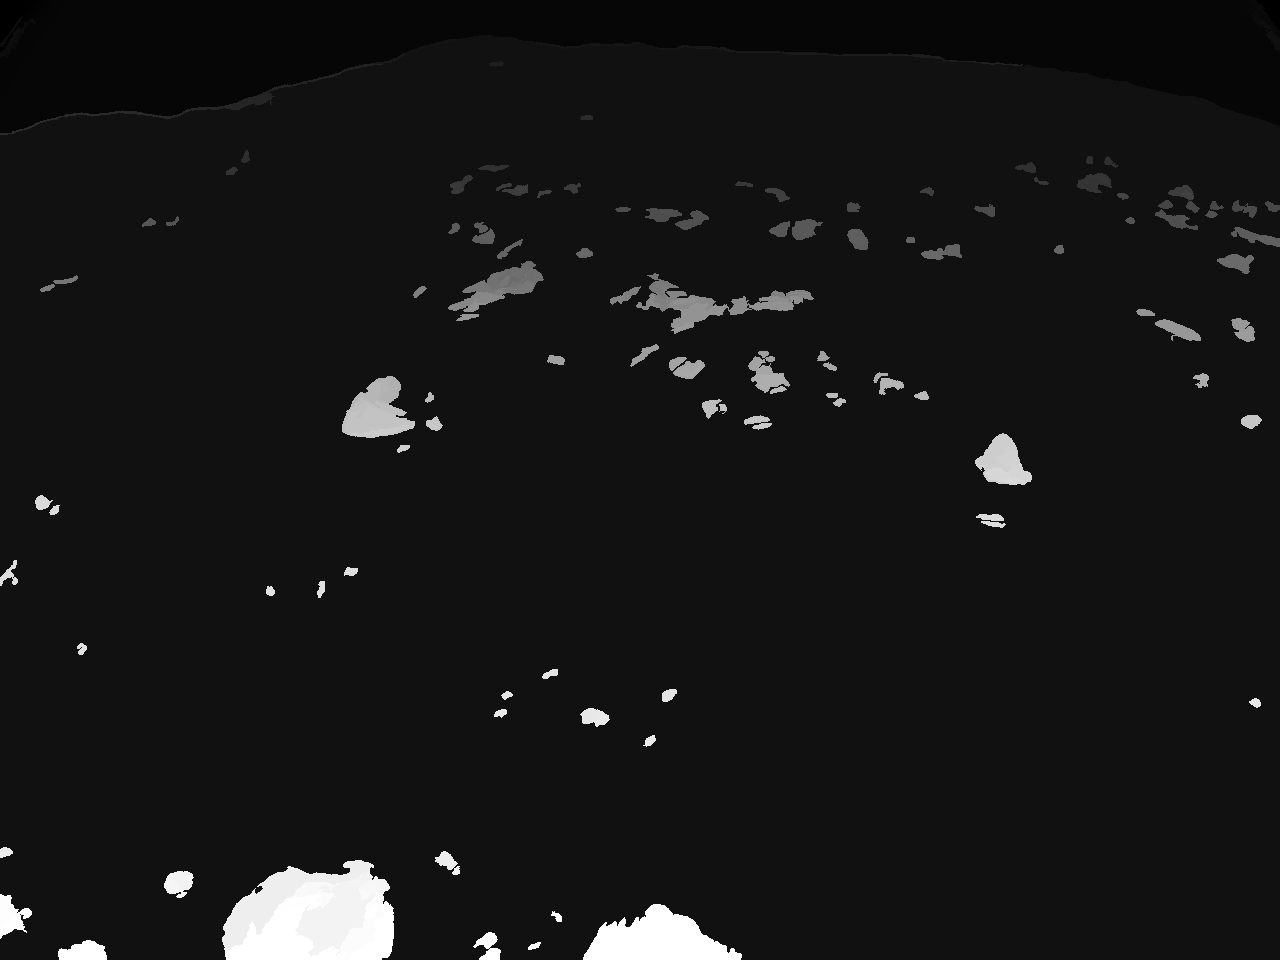
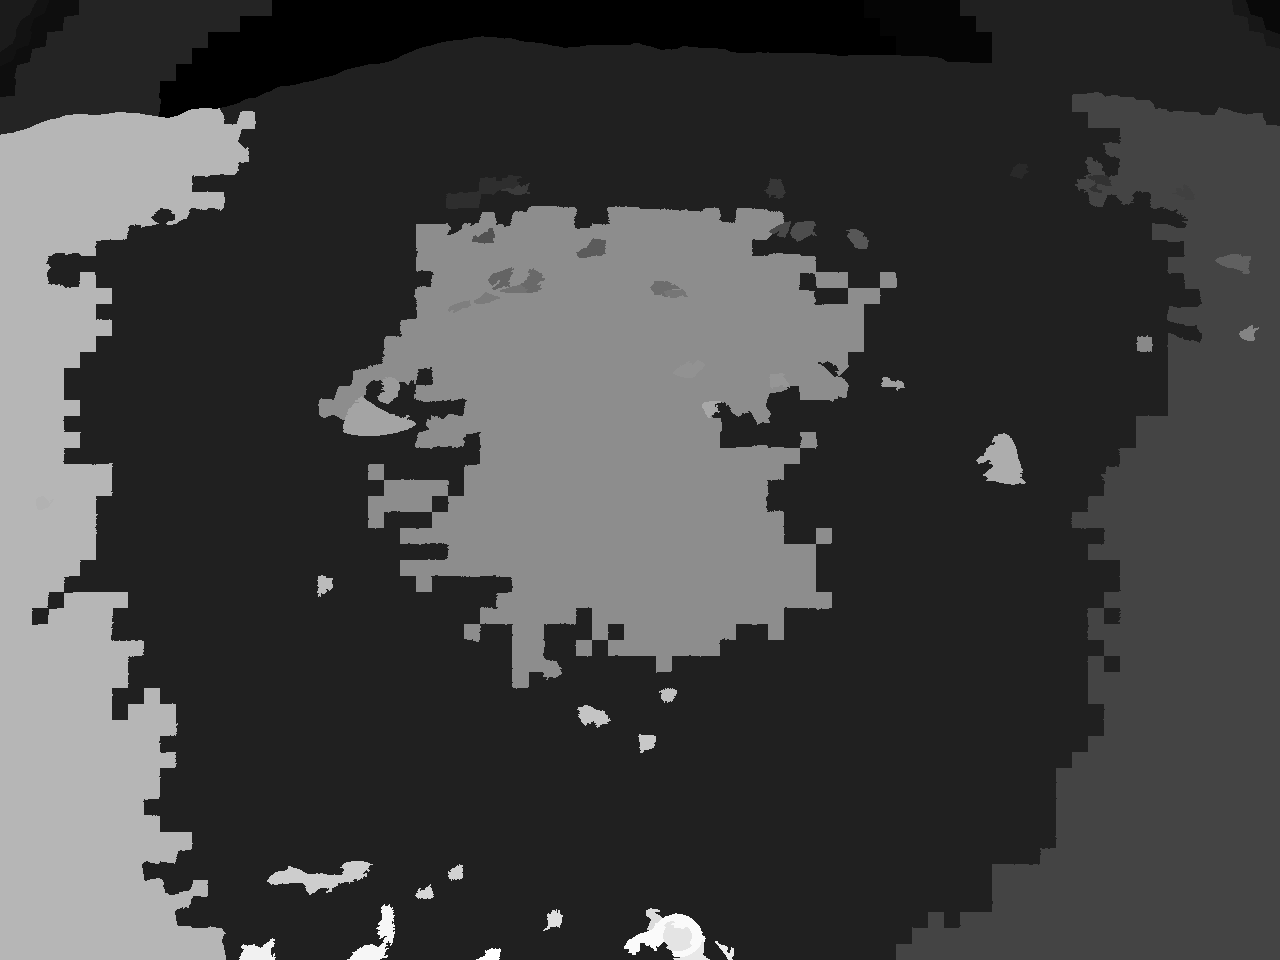
Add SLIC based segmentation method; For computing efficiency, SLIC will now be the default segmentation algorithm

diff --git a/utilities.py b/utilities.py
@@ -15,29 +15,90 @@ Last modified July 2021
 # Built-in modules
 import math
 from contextlib import contextmanager
+import time
 
 # Third-party modules
 from scipy import ndimage
+from skimage.segmentation import slic, mark_boundaries
 from skimage.measure import EllipseModel
+from skimage.future import graph
 import numpy as np
-import cv2
+from cv2 import cv2
 
 # Local modules
 from config import ROCK_MIN_SIZE
 
 
-def clock():
-    return cv2.getTickCount() / cv2.getTickFrequency()
-
-
 @contextmanager
 def Timer(msg):
     print(msg)
-    start = clock()
+    start = time.perf_counter()
     try:
         yield
     finally:
-        print("%.4f ms" % ((clock() - start) * 1000))
+        print("%.4f ms" % ((time.perf_counter() - start) * 1000))
+
+
+def save_labels(path: str, labels, convert=True):
+    """
+    Save labels generated from segmentation methods for further inspection.
+    Labels can be converted to 0 ~ 255 range optionally.
+
+    :param path: Save file path
+    :param labels: Labels
+    :param convert: Whether convert label to 0 ~ 255 range
+    :return: None
+    """
+    if convert:
+        res = cv2.normalize(labels, None, alpha=0, beta=255, norm_type=cv2.NORM_MINMAX, dtype=cv2.CV_8U)
+    else:
+        res = labels
+
+    cv2.imwrite(path, res)
+
+
+def _weight_mean_color(graph, src, dst, n):
+    """
+    Callback to handle merging nodes by recomputing mean color.
+
+    The method expects that the mean color of `dst` is already computed.
+
+    Parameters
+    ----------
+    graph : RAG
+        The graph under consideration.
+    src, dst : int
+        The vertices in `graph` to be merged.
+    n : int
+        A neighbor of `src` or `dst` or both.
+
+    Returns
+    -------
+    data : dict
+        A dictionary with the `"weight"` attribute set as the absolute
+        difference of the mean color between node `dst` and `n`.
+    """
+
+    diff = graph.nodes[dst]['mean color'] - graph.nodes[n]['mean color']
+    diff = np.linalg.norm(diff)
+    return {'weight': diff}
+
+
+def merge_mean_color(graph, src, dst):
+    """Callback called before merging two nodes of a mean color distance graph.
+
+    This method computes the mean color of `dst`.
+
+    Parameters
+    ----------
+    graph : RAG
+        The graph under consideration.
+    src, dst : int
+        The vertices in `graph` to be merged.
+    """
+    graph.nodes[dst]['total color'] += graph.nodes[src]['total color']
+    graph.nodes[dst]['pixel count'] += graph.nodes[src]['pixel count']
+    graph.nodes[dst]['mean color'] = (graph.nodes[dst]['total color'] / graph.nodes[dst]['pixel count'])
 
 
 def edge_extraction(area):
@@ -150,3 +211,32 @@ def point_perspective_transform(M: np.ndarray, point: np.ndarray):
     dst = temp[0:2, :].transpose() / temp[2, 0]
 
     return dst
+
+
+def slic_wrapper(image, n_segments=5000, compactness=30, thresh=65, visualize=False):
+    with Timer('Segmenting...'):
+        labels = slic(image, n_segments=n_segments, compactness=compactness, start_label=1)
+
+    with Timer('Merging...'):
+        rag_graph = graph.rag_mean_color(image, labels)
+
+        merged_labels = graph.merge_hierarchical(labels, rag_graph, thresh=thresh, rag_copy=False, in_place_merge=True,
+                                                 merge_func=merge_mean_color, weight_func=_weight_mean_color)
+
+    number_of_regions = len(np.unique(merged_labels))
+
+    segmented_image = np.empty(image.shape, dtype=np.uint8)
+
+    for index in range(number_of_regions):
+        region_index = np.where(merged_labels == index)
+
+        segmented_image[region_index] = np.average(image[region_index], axis=0)
+
+    if visualize:
+        label_img = mark_boundaries(image, labels)
+        merged_label_img = mark_boundaries(image, merged_labels)
+        vis = np.hstack((label_img, merged_label_img))
+        cv2.imshow('res', vis)
+        cv2.waitKey()
+
+    return segmented_image, merged_labels, number_of_regions

diff --git a/main.py b/main.py
@@ -15,7 +15,7 @@ Last modified July 2021
 """
 
 # Third-party modules
-import cv2
+from cv2 import cv2
 import pymeanshift as pms
 import numpy as np
 
@@ -24,19 +24,32 @@ from config import ROCK_MIN_SIZE
 import utilities as utl
 
 
-def rock_extraction(image: str):
+def rock_extraction(image: str, method: str):
+    """
+    Extract rocks using segmentation methods.
+    :param image: Image path
+    :param method: Segmentation algorithm used, ['meanshift' | 'slic']
+    :return: None
+    """
+    assert method in ['meanshift', 'slic'], 'No matching algorithm'
+
     # TODO: Using 3D point cloud reconstructed from stereo camera to extract rocks more precisely
     original_image = cv2.imread(image)
-    original_image = cv2.GaussianBlur(original_image, (5, 5), 2)
     visualized_image = original_image.copy()
 
-    with utl.Timer("Mean shift segmenting..."):
-        (segmented_image, labels_image, number_regions) = pms.segment(original_image, spatial_radius=6,
-                                                                      range_radius=4.5,
-                                                                      min_density=ROCK_MIN_SIZE)
+    if method == 'meanshift':
+        original_image = cv2.GaussianBlur(original_image, (5, 5), 2)
+
+        with utl.Timer("Mean shift segmenting..."):
+            segmented_image, labels_image, number_regions = pms.segment(original_image, spatial_radius=6,
+                                                                        range_radius=4.5,
+                                                                        min_density=ROCK_MIN_SIZE)
+    elif method == 'slic':
+        with utl.Timer("SLIC segmenting..."):
+            segmented_image, labels_image, number_regions = utl.slic_wrapper(original_image)
 
     cv2.imwrite("output/seg.png", segmented_image)
-    cv2.imwrite("output/label.png", labels_image)
+    utl.save_labels("output/label.png", labels_image)
     print(f"Regions segmented: {number_regions}")
 
     max_size = 0
@@ -95,4 +108,4 @@ def rock_extraction(image: str):
 
 if __name__ == '__main__':
     print(__doc__)
-    rock_extraction("sample/Mars_Perseverance_NLF_0102_0676000820_801ECM_N0040372NCAM03101_01_295J.png")
+    rock_extraction("sample/Mars_Perseverance_NLF_0102_0676000820_801ECM_N0040372NCAM03101_01_295J.png", 'slic')
